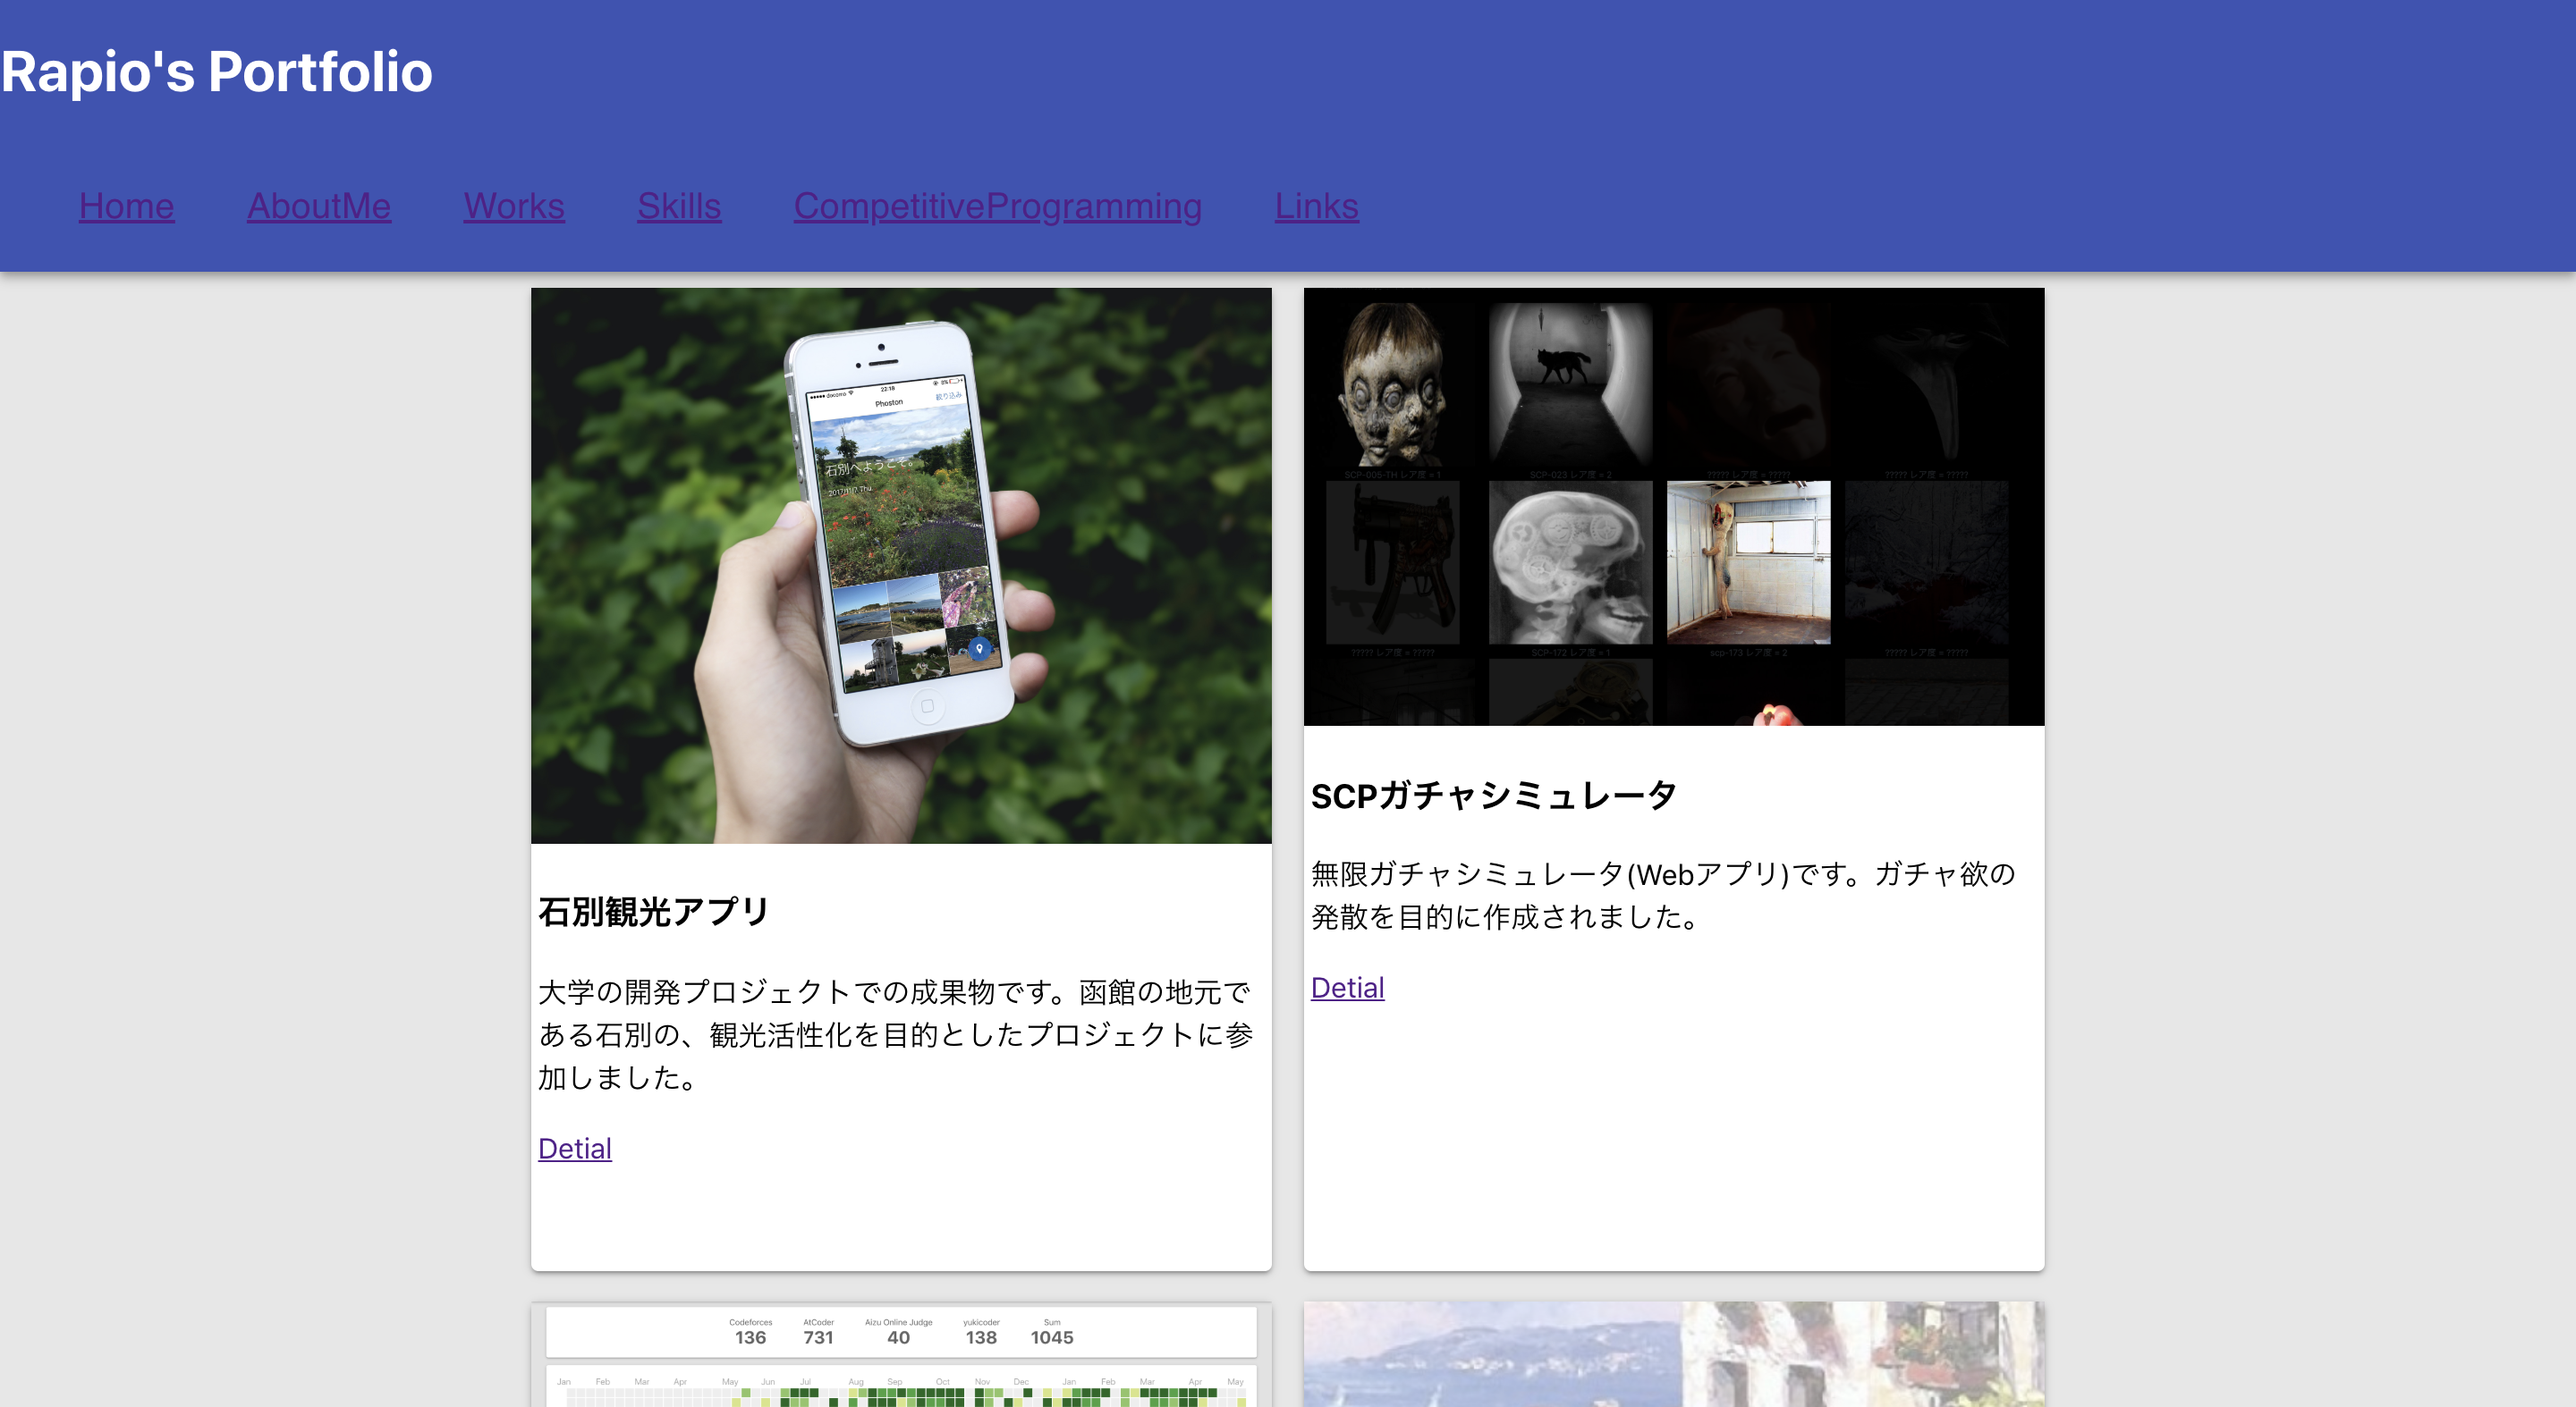
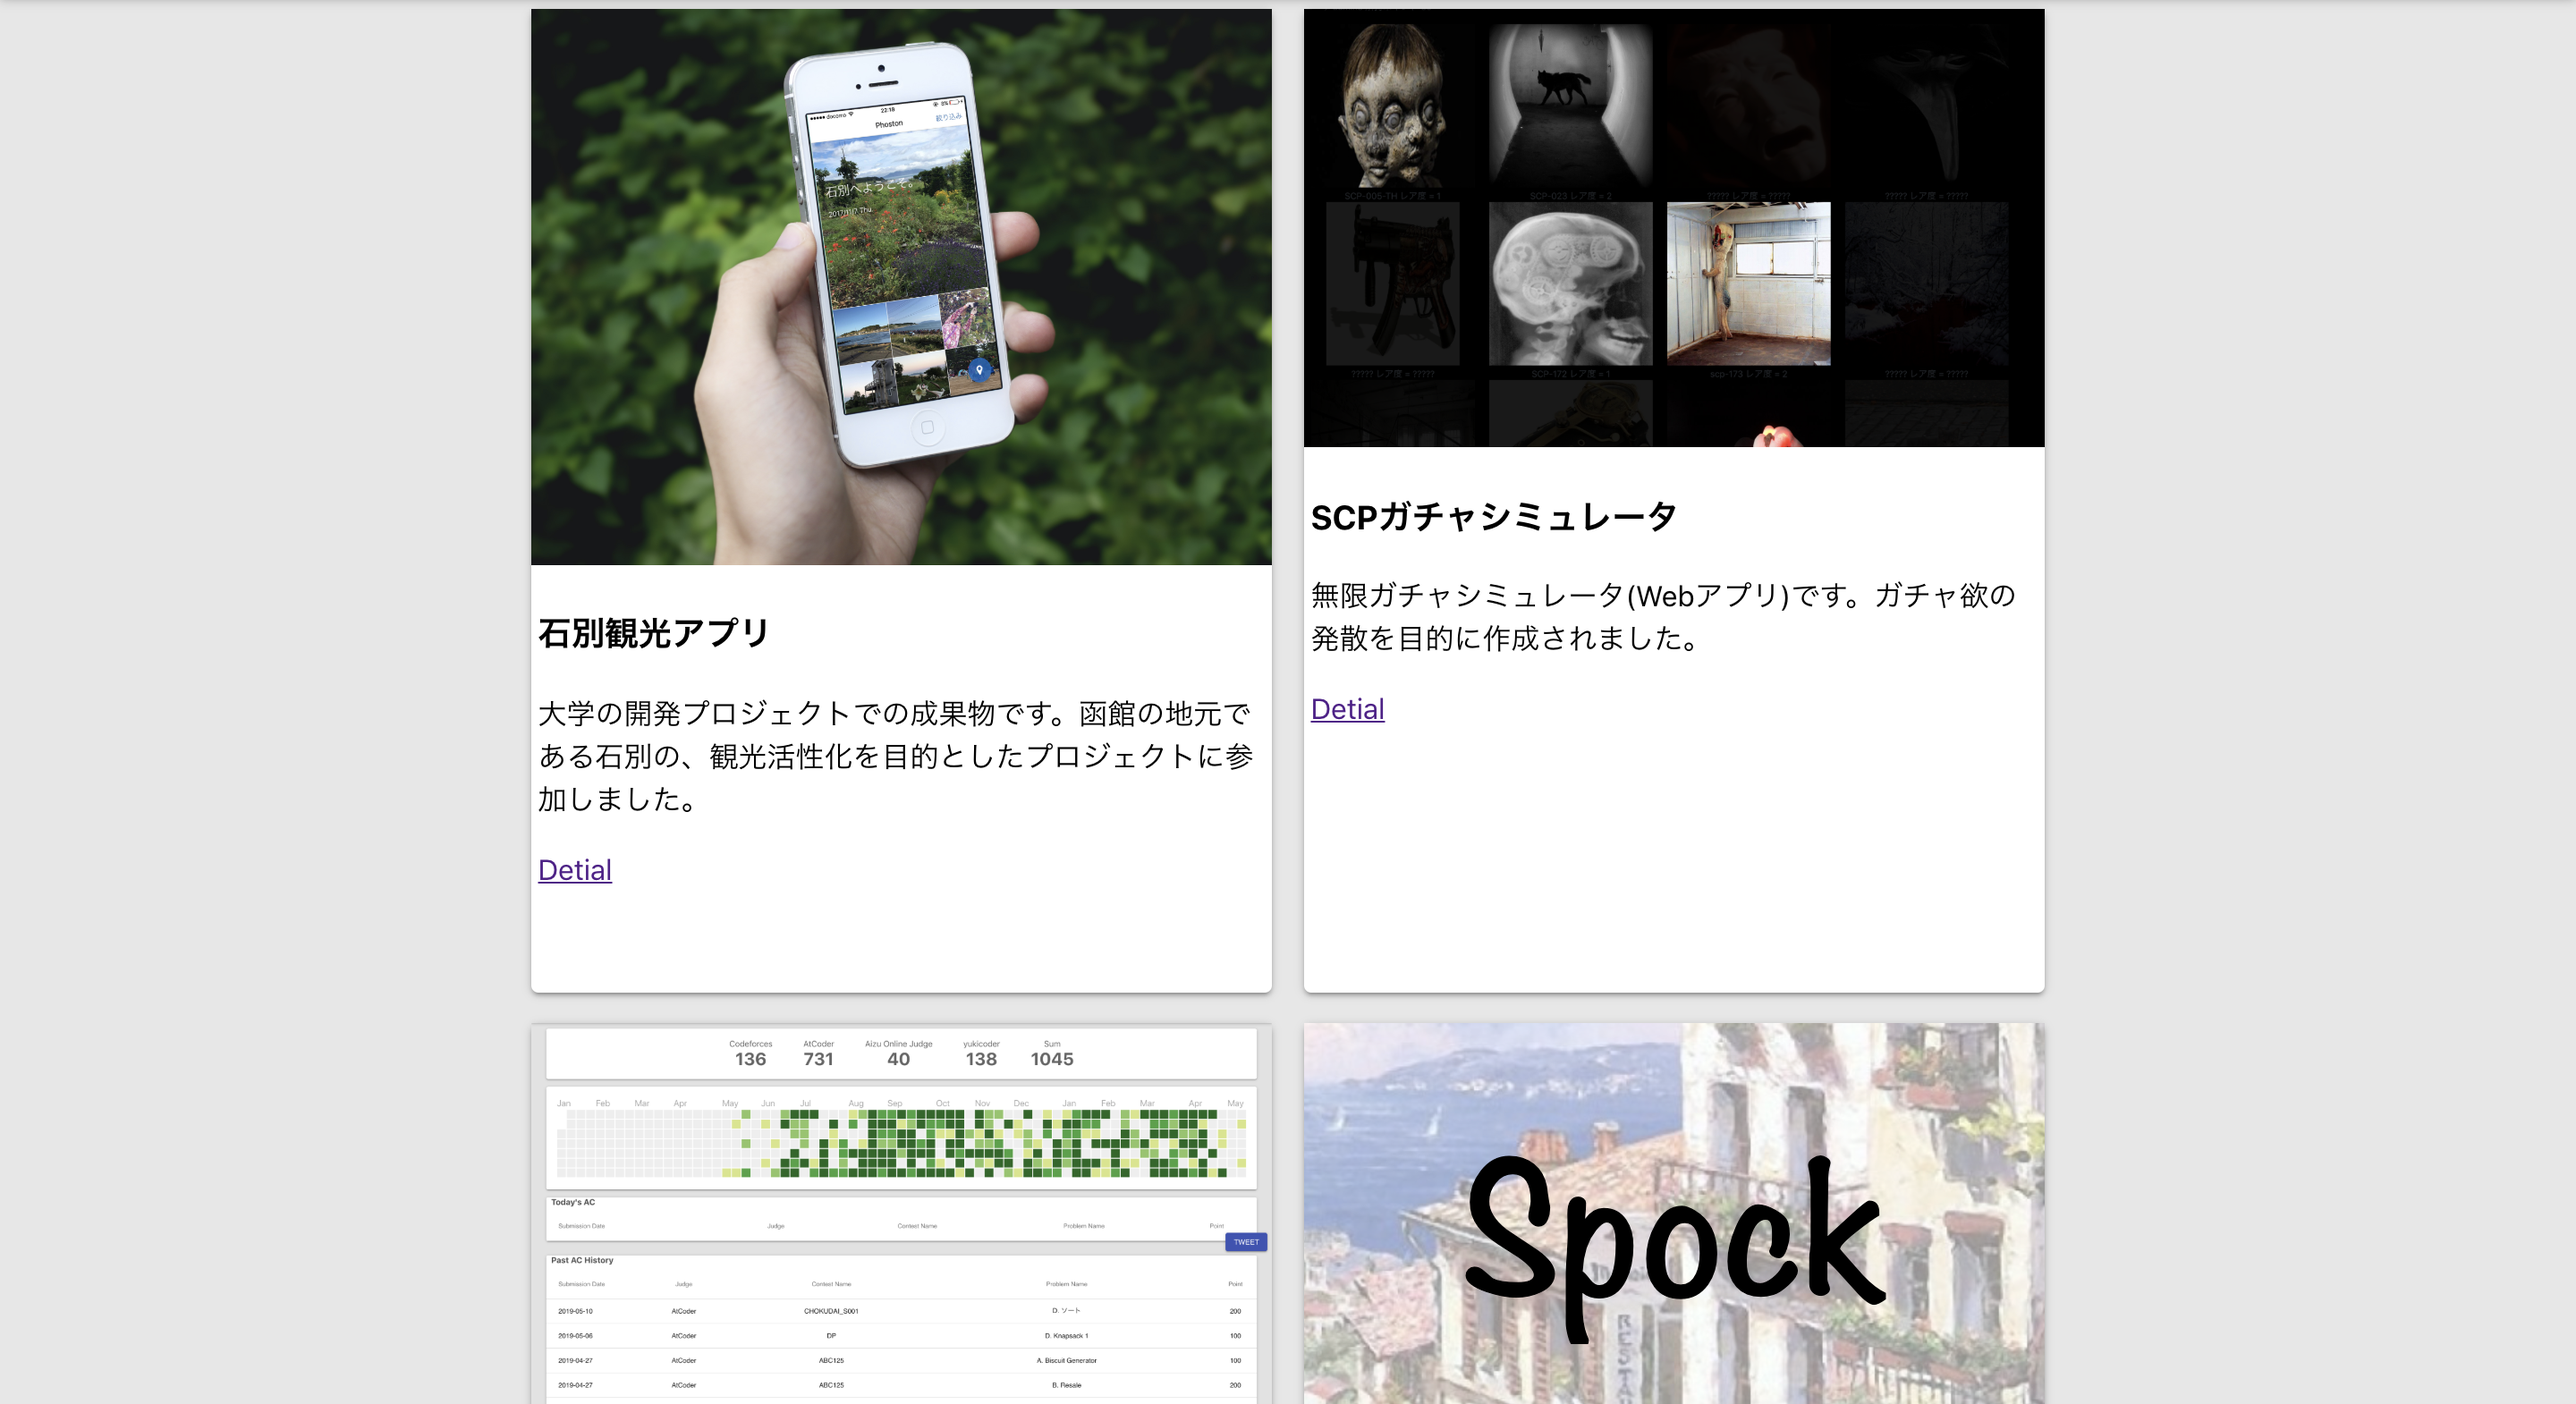
add spock description

diff --git a/src/components/Works/Works.js b/src/components/Works/Works.js
@@ -38,9 +38,6 @@ const Ishibetsu = () => {
                     <li>HTML/CSS</li>
                     <li>JavaScript</li>
                     <li>OnsenUI</li>
-                </ul>
-                <div>サーバサイド</div>
-                <ul>
                     <li>MySQL</li>
                     <li>PHP</li>
                 </ul>
@@ -101,6 +98,7 @@ const AClogger = () => {
                 <li>HTML/CSS</li>
                 <li>JavaScript</li>
                 <li>React</li>
+                <li>React-bootstrap</li>
                 <li>Heroku</li>
             </ul>
 
@@ -110,7 +108,35 @@ const AClogger = () => {
 }
 
 const Spock = () => {
+    return(
+        <Paper className = 'workview'>
+                <img src = {spock_logo} className = 'thumbnail'></img>
+                <h2>Spock</h2>
+                
+                <h3>背景</h3>
+                <div>友人とGWにハッカソン的なことをしようという話になり、製作されました。</div>
+                <div>「お出かけ」をテーマにしました。</div>
+                <div>外出先で見つけたお店などについてすぐ情報を得られ、ストックできるようにということを目標としました。</div>   
+                <div>自分の担当はサーバサイド です。APIの実装を行なっています。</div>
 
+                <h3>主要機能等</h3>
+                <ul>
+                    <li>ユーザの追加</li>
+                    <li>写真を撮るとその建物のデータを取得する（実装中）</li>
+                    <li>撮った写真、取得したデータ、追加メモ等、スポットデータのCRUD</li>
+                </ul>
+
+                <h3>使用技術</h3>
+                <ul>
+                    <li>Swift</li>
+                    <li>Flask</li>
+                    <li>AWS S3</li>
+                    <li>MySQL</li>
+                    <li>Docker</li>
+                    <li>AWS EC2</li>
+                </ul>
+            </Paper>
+    )
 }
 
 const Portfolio = () => {
@@ -129,6 +155,7 @@ const Portfolio = () => {
                 <li>HTML/CSS</li>
                 <li>JavaScript</li>
                 <li>React, Router</li>
+                <li>Material-UI</li>
             </ul>
 
             <div>随時更新中です。</div>
